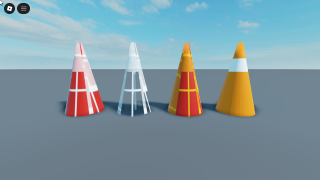
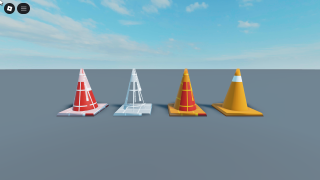
Fidelity: the cone MeshParts carry their InitialSize; CanvasGroups on a Sibling screen too
Without InitialSize the real client drew the cone at another scale, base
under the floor; Studio always saves it beside MeshId. gui_canvas_groups
gains two groups on a ZIndexBehavior Sibling screen beside the Global ones.
Both recaptured from Sober on the sandbox place.

Changed region(s): [[0.1875, 0.2222, 0.8438, 0.6667]]

diff --git a/crates/rbx_viewer/src/fidelity/scenes/gui.rs b/crates/rbx_viewer/src/fidelity/scenes/gui.rs
@@ -451,7 +451,8 @@ fn stacking(b: &mut Builder) {
 /// `CanvasGroup`s at `GroupTransparency` 0.5 with a white background and
 /// three kinds of child, with no background of their own, at 0.25 tinted by
 /// `GroupColor3`, at 0 over a half transparent child, and one inside a
-/// plain frame.
+/// plain frame, on a `Global` screen (the class default), then two on a
+/// `Sibling` one.
 fn canvas_groups(b: &mut Builder) {
     let screen = backdrop(b);
     let group = |b: &mut Builder, parent, at: [f32; 2], fade: f32| {
@@ -477,6 +478,16 @@ fn canvas_groups(b: &mut Builder) {
     let holder = frame(b, screen, [40.0, 380.0], [300.0, 300.0], [40, 120, 220]);
     let inner = group(b, holder, [30.0, 30.0], 0.5);
     frame(b, inner, [40.0, 40.0], [160.0, 160.0], [200, 40, 40]);
+    // The same under `ZIndexBehavior.Sibling`, where a group is flattened.
+    let sibling = b.screen();
+    b.set(sibling, "IgnoreGuiInset", Variant::Bool(true));
+    b.set(sibling, "ZIndexBehavior", Variant::Enum(1));
+    let flat = group(b, sibling, [400.0, 380.0], 0.5);
+    frame(b, flat, [20.0, 20.0], [100.0, 100.0], [200, 40, 40]);
+    image(b, flat, [130.0, 20.0], [90.0, 90.0], GRID);
+    let flat_tinted = group(b, sibling, [680.0, 380.0], 0.25);
+    b.set(flat_tinted, "GroupColor3", rgb(0, 255, 255));
+    frame(b, flat_tinted, [40.0, 40.0], [160.0, 160.0], [200, 40, 40]);
 }
 
 pub(super) fn scenes() -> Vec<Scene> {
@@ -523,7 +534,7 @@ pub(super) fn scenes() -> Vec<Scene> {
         ),
         gui(
             "gui_canvas_groups",
-            "CanvasGroup GroupTransparency 0.5 over a frame, text and an image, bare, tinted at 0.25, at 0, nested",
+            "CanvasGroup GroupTransparency 0.5 over a frame, text and an image, bare, tinted at 0.25, at 0, nested; under Global and Sibling",
             canvas_groups,
         ),
     ]

diff --git a/crates/rbx_viewer/src/fidelity.rs b/crates/rbx_viewer/src/fidelity.rs
@@ -160,10 +160,11 @@ impl Builder {
     }
 
     /// An anchored plastic `MeshPart` of the mesh at `mesh` at `position`,
-    /// fitted to `size`.
+    /// fitted to `size`. `initial` is the mesh's own size, the `InitialSize`
+    /// Studio saves beside it, which the real client scales from.
     pub fn mesh_part(
         &mut self,
-        mesh: &str,
+        (mesh, initial): (&str, [f32; 3]),
         size: [f32; 3],
         position: [f32; 3],
         rgb: [u8; 3],
@@ -173,6 +174,7 @@ impl Builder {
             .new_instance("MeshPart", "MeshPart", Some(self.world));
         self.set(part, "Anchored", Variant::Bool(true));
         self.set(part, "MeshId", content(mesh));
+        self.set(part, "InitialSize", vec3(initial));
         self.set(part, "size", vec3(size));
         self.set(part, "CFrame", Variant::CFrame(at(position)));
         let [r, g, b] = rgb;

diff --git a/crates/rbx_viewer/src/fidelity/scenes/look.rs b/crates/rbx_viewer/src/fidelity/scenes/look.rs
@@ -185,8 +185,9 @@ fn material_variant_anchor(b: &mut Builder) {
     }
 }
 
-/// Roblox's traffic cone mesh and its texture, public assets.
-const CONE_MESH: &str = "rbxassetid://1082802";
+/// Roblox's traffic cone mesh, with its size (a version 1.00 mesh, read at
+/// half its coordinates), and its texture, public assets.
+const CONE_MESH: (&str, [f32; 3]) = ("rbxassetid://1082802", [1.88452, 2.1347, 1.88452]);
 const CONE_TEXTURE: &str = "rbxassetid://1082804";
 /// `Enum.AlphaMode`.
 const OVERLAY: u32 = 0;
